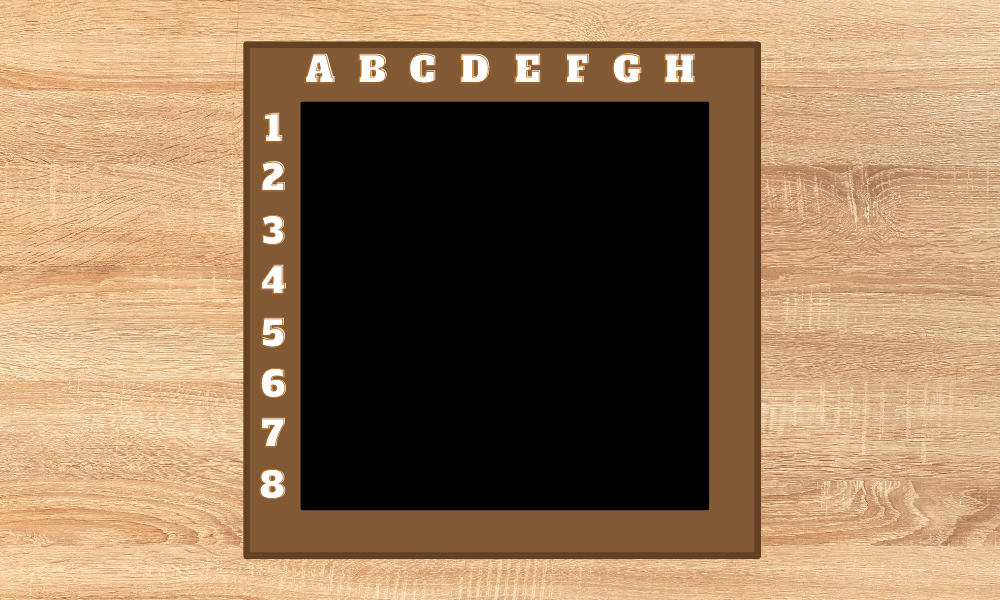
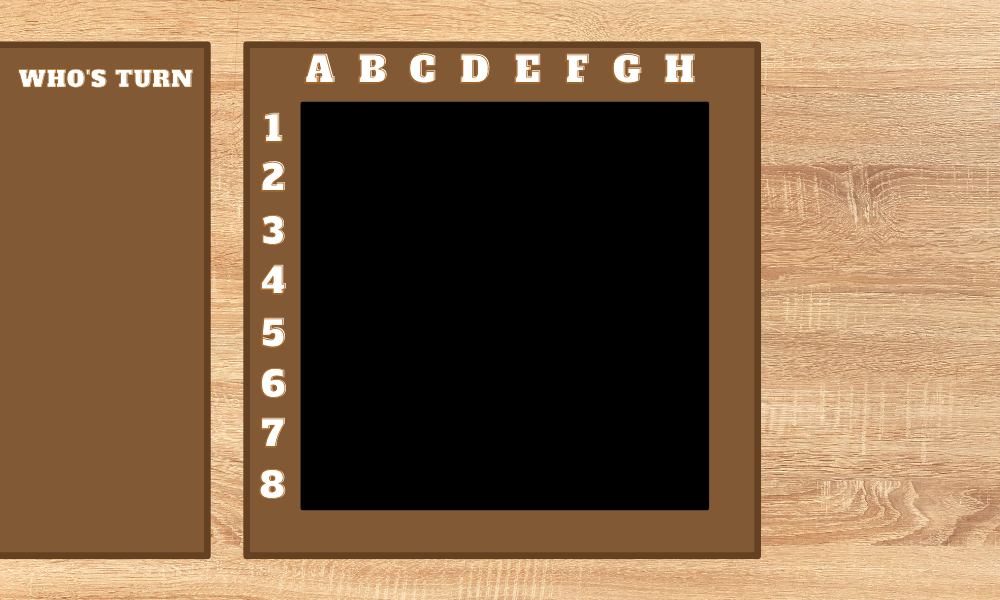
new launching_background.png with the possibily to choose directly who's starting (AI or user)

Changed region(s): [[0.0, 0.06, 0.217, 0.93]]

diff --git a/othello.py b/othello.py
@@ -66,8 +66,17 @@ class Othello:
                     pygame.quit()
                     exit()
                 if event.type == pygame.MOUSEBUTTONDOWN:  # Click are used to play and place your coin
-                    self.game_state = GAME_STATES["PLAYING"]
-                    self.playing_othello(screen)
+                    mouse_position = event.pos
+                    if 184 <= mouse_position[0] <= 286 and 245 <= mouse_position[1] <= 352:
+                        self.player_1['AI'] = True
+                        self.player_2['AI'] = False
+                        self.game_state = GAME_STATES["PLAYING"]
+                        self.playing_othello(screen)
+                    if 714 <= mouse_position[0] <= 820 and 248 <= mouse_position[1] <= 357:
+                        self.player_1['AI'] = False
+                        self.player_2['AI'] = True
+                        self.game_state = GAME_STATES["PLAYING"]
+                        self.playing_othello(screen)
 
     def playing_othello(self, screen):
         self.init_game_background(screen)
@@ -78,14 +87,17 @@ class Othello:
                     pygame.quit()
                     exit()
                 if event.type == pygame.MOUSEBUTTONDOWN:  # Click are used to play and place your coin
-                    mouse_position = event.pos
-                    # Check If the click is inside the board
-                    if self.is_valid_click(mouse_position):
-                        self.play_once(mouse_position, screen)  # Playing process
-                        self.display_available_move(screen, self.current_player)
-                        if not self.board.available_moves:
-                            self.game_state = GAME_STATES["ENDING"]
-                            self.ending_othello(screen)
+                    if self.current_player == 1 and not self.player_1["AI"]:
+                        mouse_position = event.pos
+                        # Check If the click is inside the board
+                        if self.is_valid_click(mouse_position):
+                            self.play_once(mouse_position, screen)  # Playing process
+                            self.display_available_move(screen, self.current_player)
+                            if not self.board.available_moves:
+                                self.game_state = GAME_STATES["ENDING"]
+                                self.ending_othello(screen)
+                    else:
+                        print("WAIT, NOW IT IS AI TURN")
                 pygame.display.update()
 
     def ending_othello(self, screen):
@@ -103,13 +115,12 @@ class Othello:
             self.game_state = GAME_STATES["P2WON"]
         else:
             self.game_state = GAME_STATES["DRAW"]
-            
+
         fond = pygame.image.load(f'assets/{self.game_state}.png')
         fond = fond.convert()
         screen.blit(fond, (0, 0))
         pygame.display.flip()
         pygame.display.update()
-
 
     def is_valid_click(self, mouse_position):
         return self.top_board_side <= mouse_position[1] <= self.bottom_board_side and \
@@ -177,14 +188,14 @@ class Othello:
     def change_player_indicator(self, screen):
         if self.current_player == 1:
             pygame.draw.circle(screen, self.player_1["color"],
-                               (self.board.radius,
-                                self.board.radius),
-                               self.board.radius)
+                               (105,
+                                150),
+                               self.board.radius * 2)
         else:
             pygame.draw.circle(screen, self.player_2["color"],
-                               (self.board.radius,
-                                self.board.radius),
-                               self.board.radius)
+                               (105,
+                                150),
+                               self.board.radius * 2)
 
     def init_game_background(self, screen):
         fond = pygame.image.load('assets/background.png')
